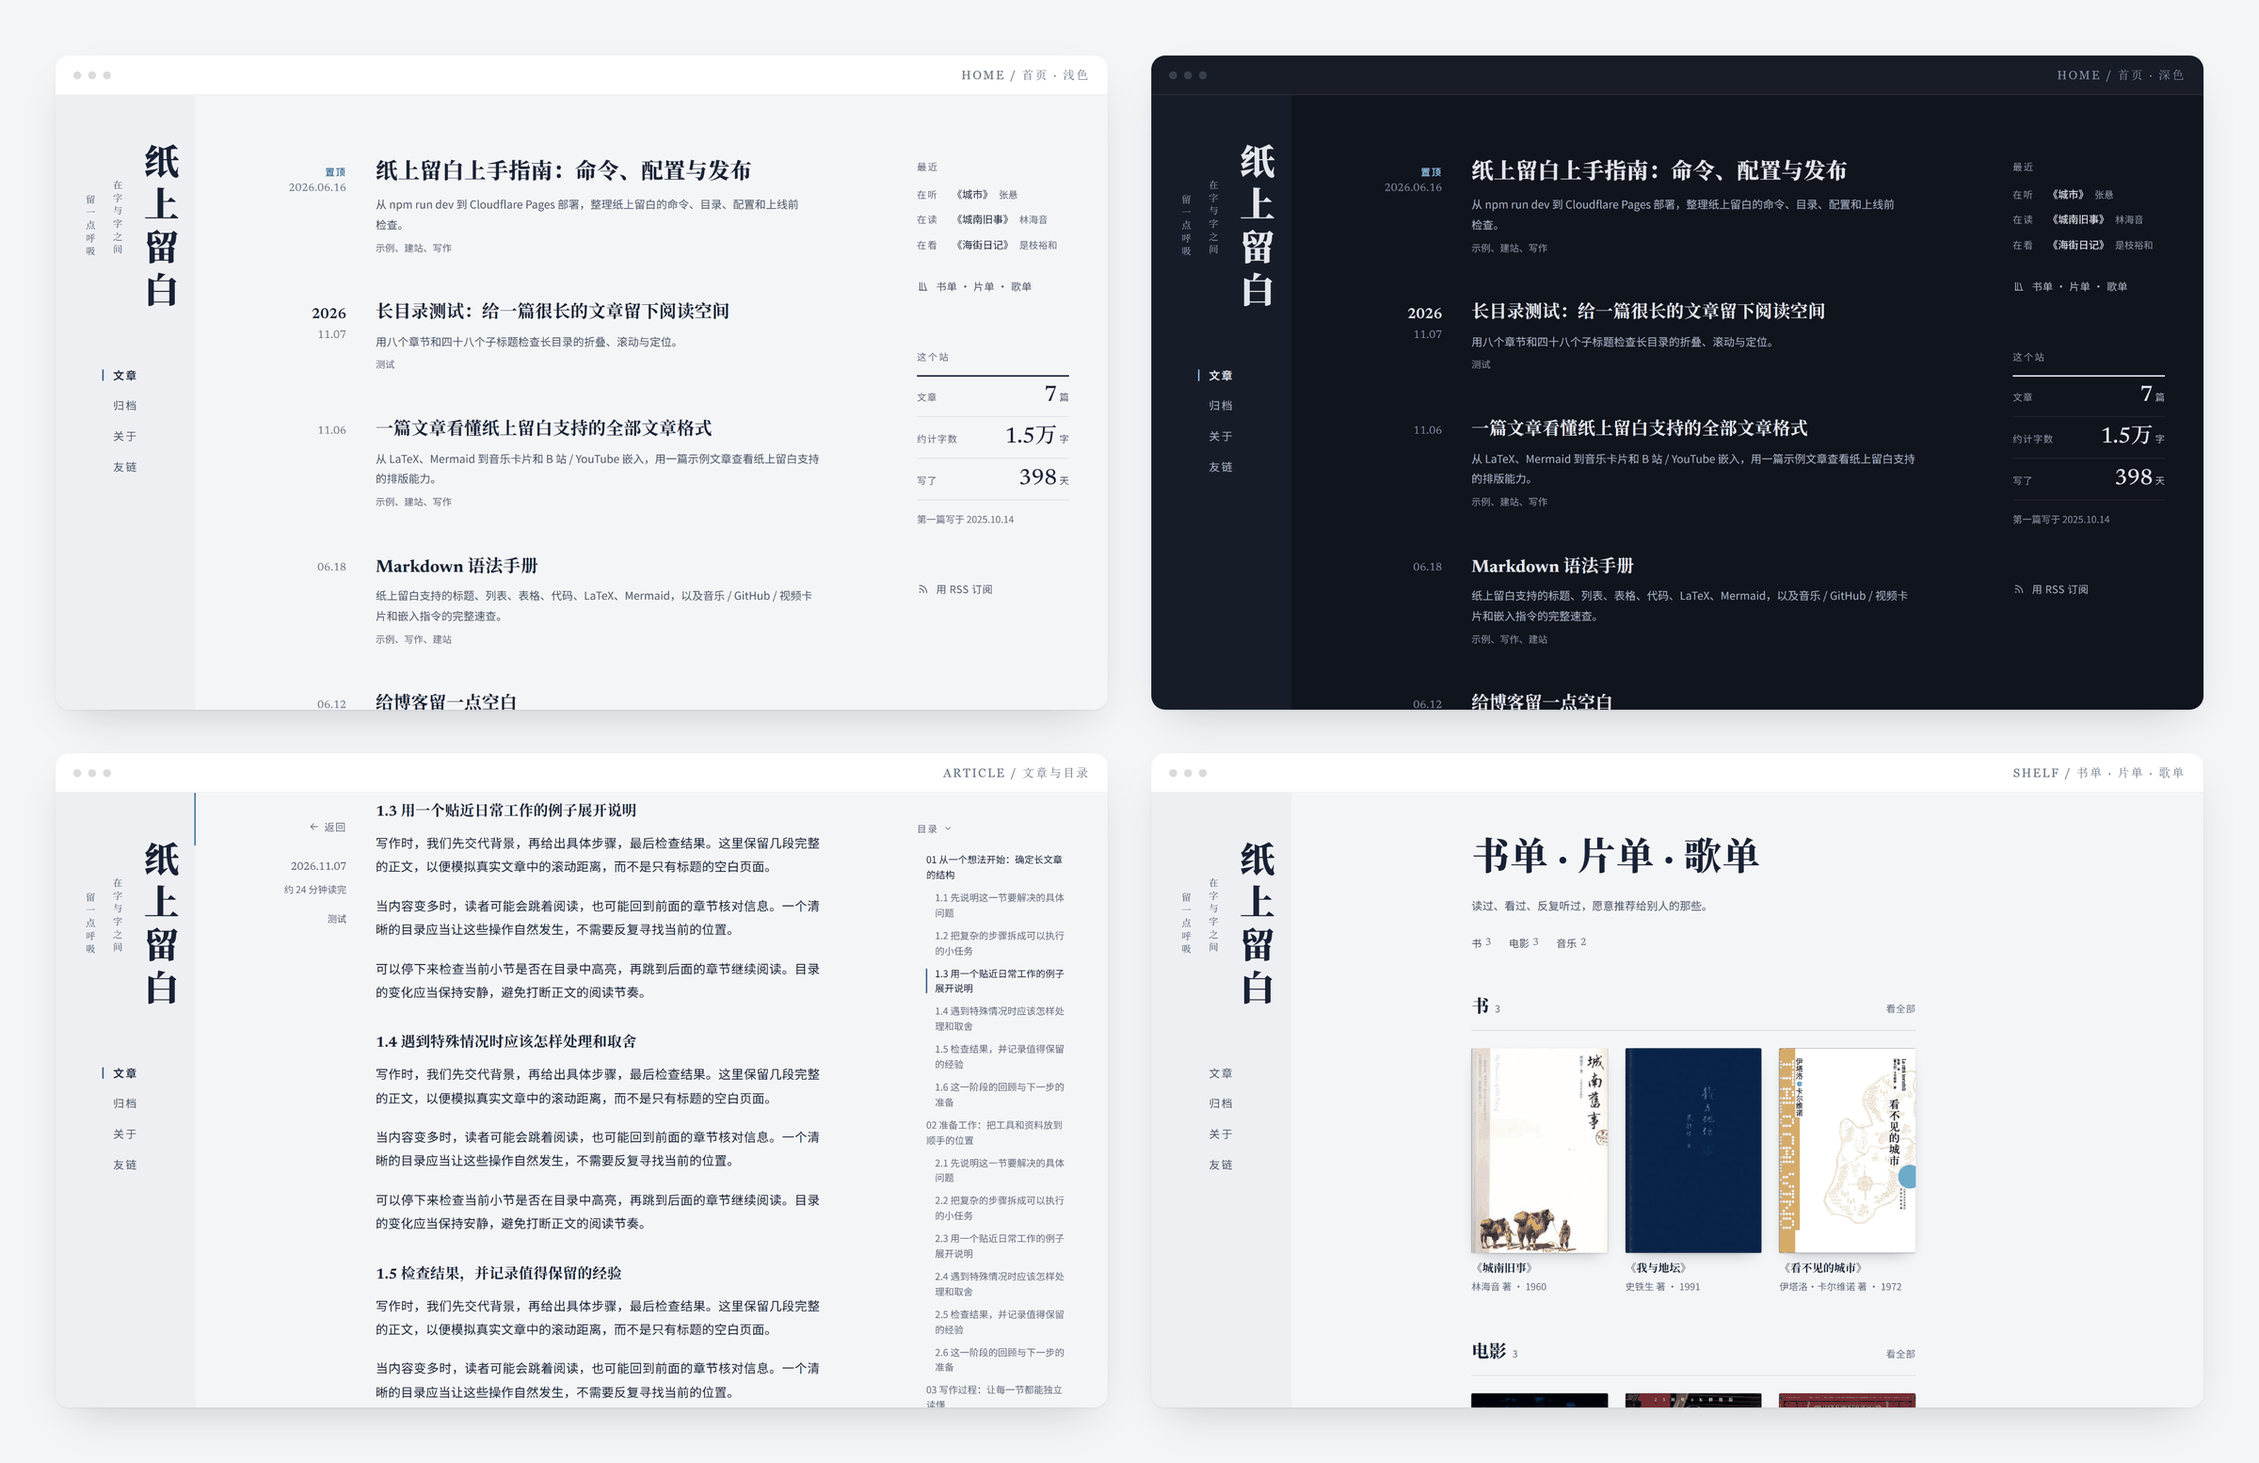
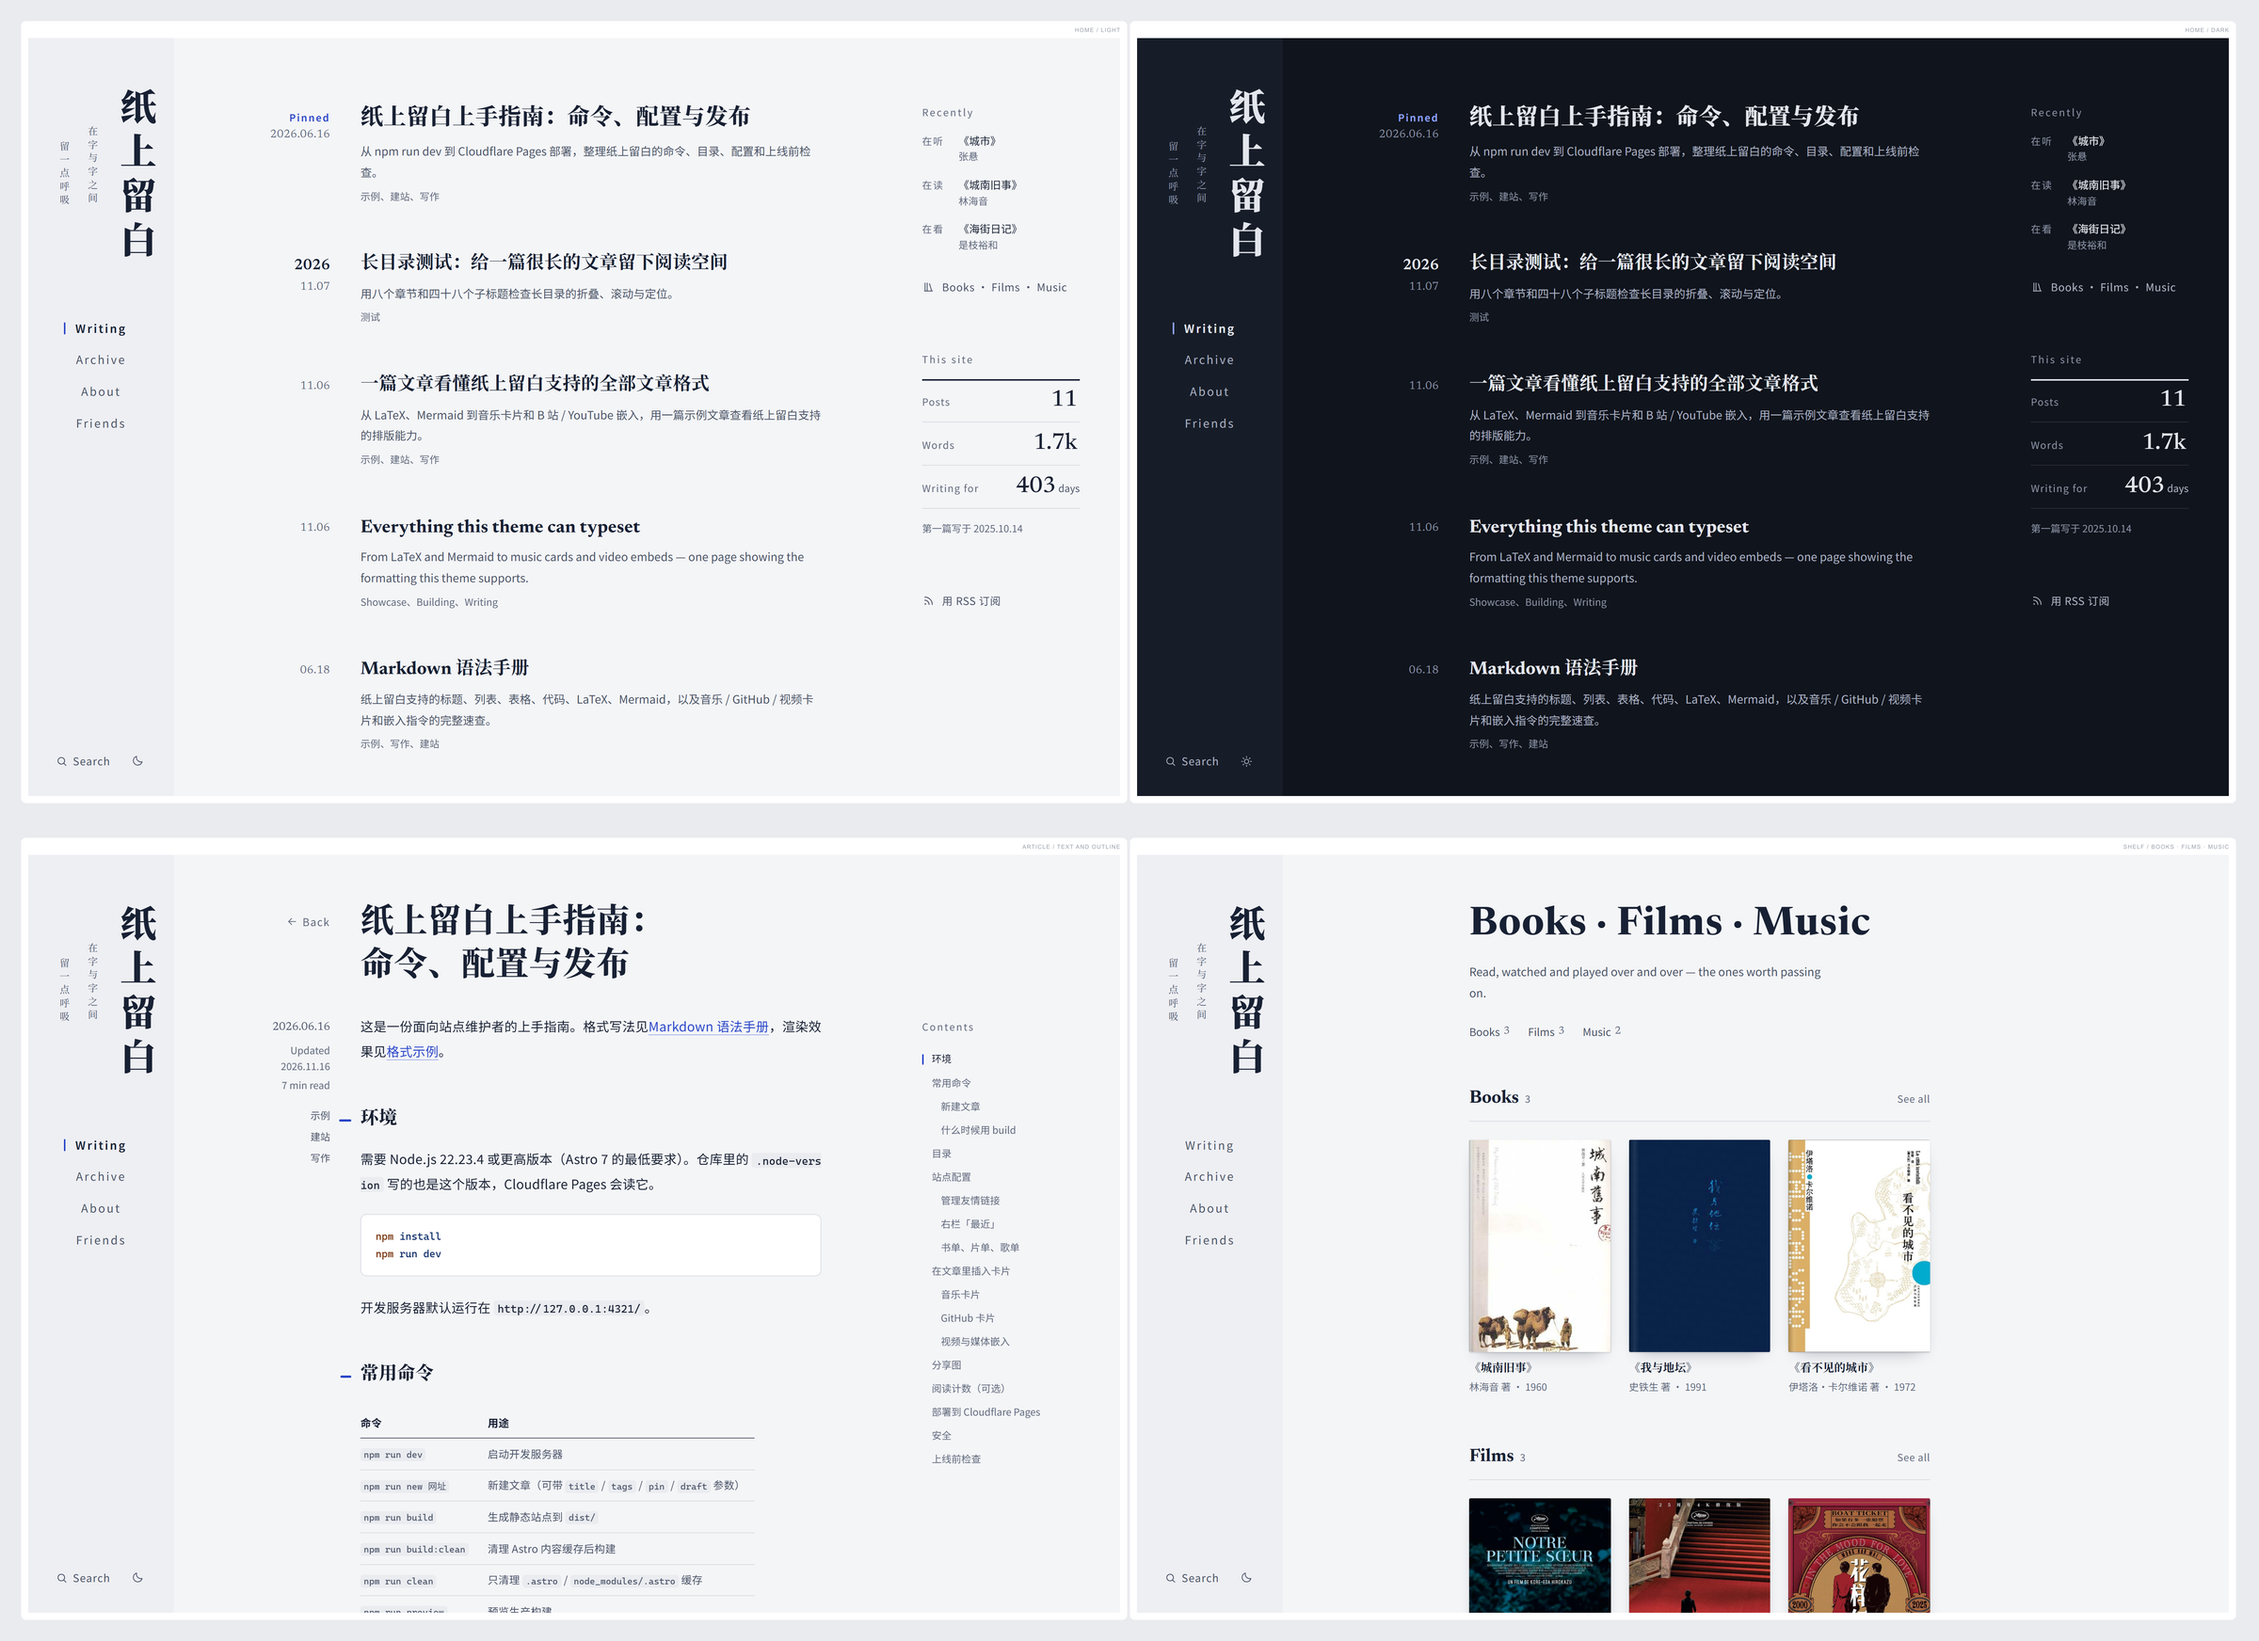
Build the README pictures instead of assembling them by hand
The three images in docs/ were made in an image editor: a screenshot pasted
into a drawn browser frame, two phones with drawn bodies and captions, a grid
laid out by eye. Redoing them for another language meant redoing that work,
and any change to the design left them stale in a way nothing would catch.

`npm run docs:shots` does it now. It screenshots the running build, draws the
window and phone chrome around the results, and lays out the three
compositions: four panels for the showcase, two phones for the mobile picture,
the search sheet and the two card kinds for the details. The language follows
what the build actually renders, so the same command produces the pictures in
either language, and a redesign only needs the script re-run.

Two things this turned up, now fixed in the script: the font gate means a
screenshot taken before it opens is a blank sheet of paper, and the search
sheet says "Building index…" until its index arrives — so the shot waits for
a result row rather than for a fixed delay.

The English README gains the same summary of the field spellings the previous
commit added, so a reader writing an English shelf is told that `year:` works,
and both READMEs document the new command and the two new test suites.

diff --git a/README.en.md b/README.en.md
@@ -1,6 +1,6 @@
 <div align="center">
 
-# 纸上留白 · OnPaper
+# OnPaper · 纸上留白
 
 **Leave a little air between the words.**
 
@@ -17,6 +17,8 @@ A Chinese personal blog theme: the margin is part of the page. Reading is organi
 ---
 
 ## Preview
+
+The pictures below are generated from the live build rather than assembled by hand: `npm run docs:shots` takes the screenshots, draws the window and phone chrome, and lays out the grid.
 
 ![OnPaper: light home page, dark home page, an article with its outline, and the shelf](docs/showcase.png)
 
@@ -40,7 +42,7 @@ A Chinese personal blog theme: the margin is part of the page. Reading is organi
 
 | | |
 | :--- | :--- |
-| **✦ Typography first**<br>Noto Sans SC for body and interface; Newsreader + heavy Noto Serif SC for headings, the site name and numerals. Emphasis uses the Chinese 着重号 dot, not italics. | **◐ Reading**<br>Outline, reading progress, image lightbox, back to top, share bar; copy a citation, generate a share card, print to PDF at the end of a post. |
+| **✦ Typography first**<br>Noto Sans SC for body and interface; Newsreader + heavy Noto Serif SC for headings, the site name and numerals. Emphasis uses the Chinese emphasis dot (着重号) under each character, not italics. | **◐ Reading**<br>Outline, reading progress, image lightbox, back to top, share bar; copy a citation, generate a share card, print to PDF at the end of a post. |
 | **▯ Margin layout**<br>On desktop: a spine at the left, margin notes beside the text, and an outline or aside on wide screens. Narrow screens fold each column back above the text without losing anything. | **◯ Search**<br><kbd>Ctrl</kbd> / <kbd>⌘</kbd> + <kbd>K</kbd> or <kbd>/</kbd> opens it. Titles, tags and body text are indexed at build time, and matches are highlighted. |
 | **◑ Theme**<br>Light, dark or follow the system, revealed as a circle from the button and remembered. Cold white paper with blue-black ink; night is a deep blue-black rather than pure black. | **✎ Markdown extensions**<br>KaTeX, Mermaid, music cards (one link, four platforms), GitHub cards, Spotify / Bilibili / YouTube embeds. |
 | **▤ Shelf**<br>Books, films and music as three Markdown files, with a poster wall of real Douban covers. Each item has its own page, and items mentioned in a post carry a "wrote about it" link. | **◎ Sharing**<br>Every post gets its own share image at build time (title plus the first 60 characters), and the share card holds a locally generated QR code. |
@@ -70,6 +72,7 @@ Open <http://127.0.0.1:4321/>.
 | `npm run music` | Resolve and cache the links in `::music` cards |
 | `npm run og` | Regenerate `public/og.png` from `public/og.svg` |
 | `npm run shots` | Playwright screenshot check (run `npm run dev` first) |
+| `npm run docs:shots` | Rebuild the pictures in `docs/` from the current build |
 | `npm run clean` | Clear only the `.astro` cache |
 
 Tests (each builds first):
@@ -84,6 +87,8 @@ Tests (each builds first):
 | `npm run test:render` | Markdown and inline HTML: sanitising, footnotes, KaTeX, Mermaid, shiki |
 | `npm run test:i18n` | The two dictionaries match key for key, no empty copy, no Chinese leaking into English |
 | `npm run test:shelf` | Shelf and "Recently" parsing, cover fetching, pruning, series directors |
+| `npm run test:shelf-keys` | A shelf written with English field names reads the same as one written in Chinese |
+| `npm run test:font-gate` | The page stays visible when the font host is unreachable |
 
 ### Creating a post
 
@@ -101,7 +106,7 @@ title: A Walk Without a Map
 description: ''
 published: 2026-11-07
 tags:
-  - _未分类
+  - _uncategorised
 pin: 0
 ---
 
@@ -125,7 +130,7 @@ A few notes:
 
 - Slugs use lowercase Latin letters, digits and hyphens only
 - A non-Latin title goes in `title=...`, never in the slug position
-- Without `tags`, the placeholder `_未分类` is written; it keeps the frontmatter a list and never appears in posts, tag pages, search or RSS
+- Without `tags`, a placeholder tag is written; it keeps the frontmatter a list and never appears in posts, tag pages, search or RSS. The placeholder is `_未分类` in a Chinese build and `_uncategorised` in an English one
 - An existing file is never overwritten
 
 ---
@@ -270,14 +275,26 @@ Three Markdown files, one list per file:
 Each book, film or record is one paragraph, one field per line:
 
 ```text
-书名：城南旧事
-作者：林海音
-年份：1960
-豆瓣：https://book.douban.com/subject/3057333/
-一句话：小时候读不懂，长大才知道它写的是告别。
+title: My Memories of Old Beijing
+author: Lin Haiyin
+year: 1960
+douban: https://book.douban.com/subject/3057333/
+note: I did not understand it as a child; only later did I see it is about goodbye.
 ```
 
-Books use `书名：` / `作者：`, films `片名：` / `导演：`, records `名称：` / `歌手：` / `链接：`. The title is required and the rest is optional; `一句话：` appears under the cover; the `<!-- -->` comment at the top of each file never reaches the page.
+Every field can be written in English or in Chinese; the theme's own files and everything `npm run covers` writes use the Chinese keys, and both spellings read the same.
+
+| Field | English | Chinese |
+| --- | --- | --- |
+| Title (required) | `title:` | `书名:` / `片名:` / `名称:` |
+| Creator | `author:` / `director:` / `artist:` | `作者:` / `导演:` / `歌手:` |
+| Year | `year:` | `年份:` |
+| Douban page | `douban:` | `豆瓣:` |
+| Player / other link | `link:` | `链接:` |
+| Cover | `cover:` | `封面:` |
+| One-line note | `note:` | `一句话:` |
+
+The title is required and the rest is optional; `note:` appears under the cover; the `<!-- -->` comment at the top of each file never reaches the page.
 
 A title alone is enough — `npm run covers` fills in the rest (see below).
 
@@ -305,7 +322,7 @@ The script reads the three Markdown files and the "Recently" column (`src/conten
 
 1. **Fill, never overwrite.** A field you wrote is left alone. The book says 1960 and Douban says this edition is 2008 — 1960 stays.
 2. **Only absent lines are added**, in the order the file's own comment documents. Lines you wrote are kept byte for byte, including the spacing around the colon, and a CRLF file stays CRLF.
-3. **If the lookup finds nothing, nothing changes.** The console prints one line, `x 书名: no Douban match`, and the next run tries again.
+3. **If the lookup finds nothing, nothing changes.** The console prints one line, `x 城南旧事: no Douban match`, and the next run tries again.
 
 Books and films go through Douban: an entry's own `豆瓣：` line first, then a search on "title + author/director", accepting only a hit whose title, year and creator agree (a matching title alone is not enough — too many books share one). The mobile subject API then supplies creator, publication year and cover, and `作者` / `导演`, `年份` and `豆瓣` are written in.
 
@@ -318,7 +335,7 @@ Records reuse the music card's resolver (`src/utils/music-resolver.mjs`): a `链
 An entry that has been completed is skipped on the next run without any network request. To fill only a few:
 
 ```bash
-node scripts/fetch-covers.mjs 城南旧事 一一
+node scripts/fetch-covers.mjs 'My Memories of Old Beijing' 'Yi Yi'
 ```
 
 With arguments it handles only those entries and leaves the "Recently" column alone.
@@ -346,10 +363,10 @@ What it will not remove:
 `src/content/pages/now.md` holds three rows. The address at the end of the second line is what the row opens (a Douban subject page for a book or film, a music platform for a record):
 
 ```text
-在听：《城市》
-张悬 https://music.163.com/#/album?id=32312
-年份：2009
-豆瓣：https://music.douban.com/subject/3801228/
+Listening：《City》
+Deserts Chang https://music.163.com/#/album?id=32312
+year：2009
+douban：https://music.douban.com/subject/3801228/
 ```
 
 The first line alone is enough; `npm run covers` fills in the creator, the link and the year the same way it does the shelf. Those extra lines are reference only — the column shows no year and no picture, and the second line's link is the whole of the interaction.

diff --git a/README.md b/README.md
@@ -18,6 +18,8 @@
 
 ## 预览
 
+下面三张图由脚本从真实构建生成，不是手工拼的：`npm run docs:shots` 负责截图、画窗口和手机外壳、排版。
+
 ![纸上留白：浅色首页、深色首页、带目录的文章页、书单页](docs/showcase.png)
 
 <div align="center">
@@ -70,6 +72,7 @@ npm run dev
 | `npm run music` | 解析并缓存 `::music` 里的链接 |
 | `npm run og` | 从 `public/og.svg` 重新生成 `public/og.png` |
 | `npm run shots` | Playwright 截图检查（需先 `npm run dev`） |
+| `npm run docs:shots` | 用当前构建重新生成 `docs/` 里的三张图 |
 | `npm run clean` | 只清理 `.astro` 缓存 |
 
 测试（每条都会先构建）：
@@ -84,6 +87,8 @@ npm run dev
 | `npm run test:render` | Markdown 与行内 HTML：消毒、脚注、KaTeX、Mermaid、代码高亮 |
 | `npm run test:i18n` | 中英字典键一一对应、无空文案、英文里不漏中文 |
 | `npm run test:shelf` | 书单 / 片单 / 歌单与「最近」的解析、封面抓取与清理、剧集导演 |
+| `npm run test:shelf-keys` | 用英文字段名写的书单，读出来和中文写的一样 |
+| `npm run test:font-gate` | 字体源不可达时页面仍然可见 |
 
 ### 新建文章
 
